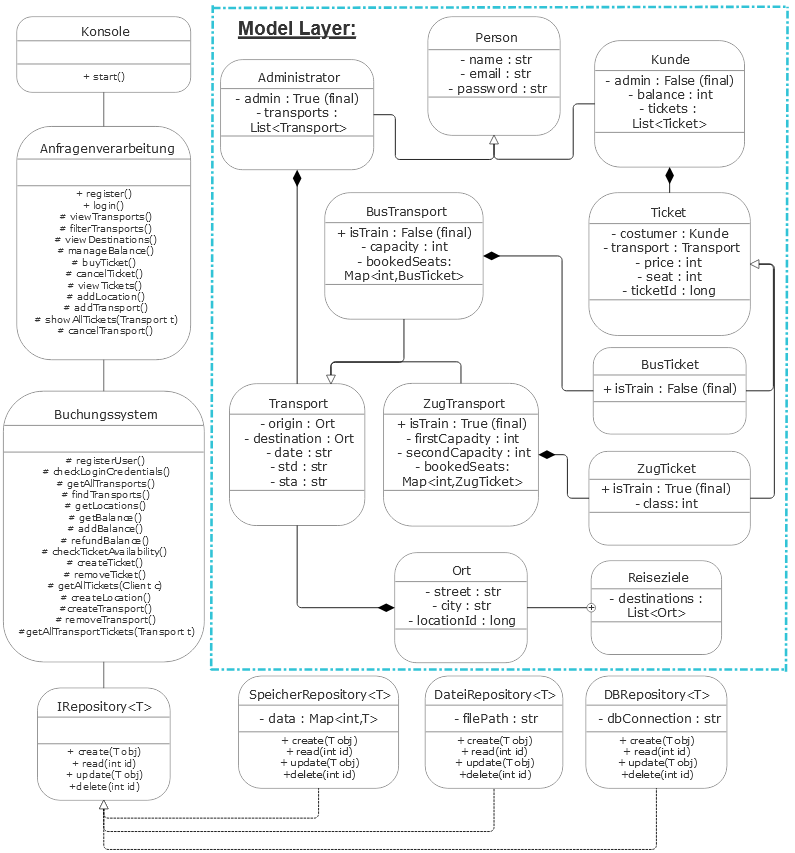
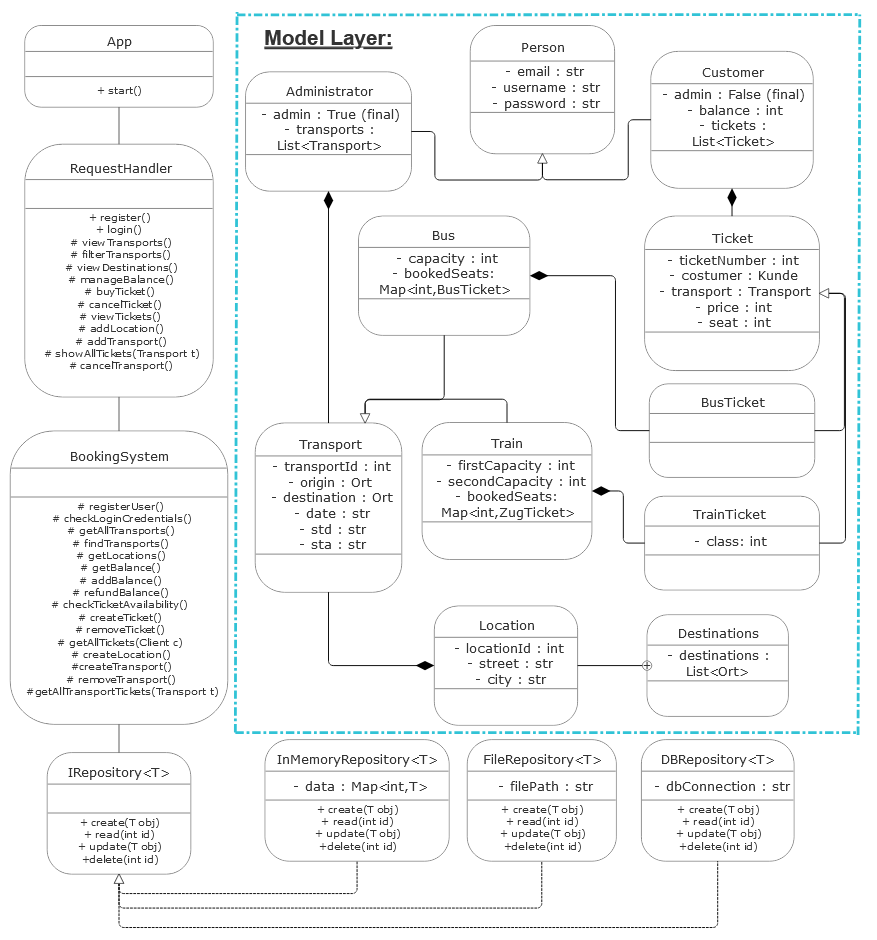
Mit Feedback aktualisiertes Klassendiagramm und entsprechende Anpassung in Person-Klasse. Administrator-Klasse angefangen.

diff --git a/src/main/java/model/Person.java b/src/main/java/model/Person.java
@@ -5,19 +5,19 @@ package main.java.model;
  */
 public abstract class Person {
 
-    private String name;
+    private String username;
     private String email;
     private String password;
 
     /**
      * Konstruktor für Erstellung eines Nutzers, wobei kontrolliert wird, dass die E-Mail-Adresse als Identifier einzigartig ist.
      *
-     * @param name Name des Nutzers
-     * @param email E-Mail-Adresse des Nutzers, muss einzigartig sein
-     * @param password Passwort des Nutzers
+     * @param name      Name des Nutzers
+     * @param email     E-Mail-Adresse des Nutzers, muss einzigartig sein
+     * @param password  Passwort des Nutzers
      */
     public Person(String name, String email, String password) {
-        this.name = name;
+        this.username = name;
         //todo: check if email is unique
         this.email = email;
         this.password = password;

diff --git a/src/main/java/model/Administrator.java b/src/main/java/model/Administrator.java
@@ -1,4 +1,20 @@
 package main.java.model;
 
-public class Administrator {
+import java.util.List;
+
+public class Administrator extends Person {
+
+    private final Boolean admin = true;
+    private List<Transport> transports;
+
+    public Administrator (String name, String email, String password) {
+        super(name, email, password);
+    }
+
+    public Boolean isAdmin() {return this.admin;}
+
+    public List<Transport> getAllAdministeredTransports() {
+        return this.transports;
+    }
+
 }
